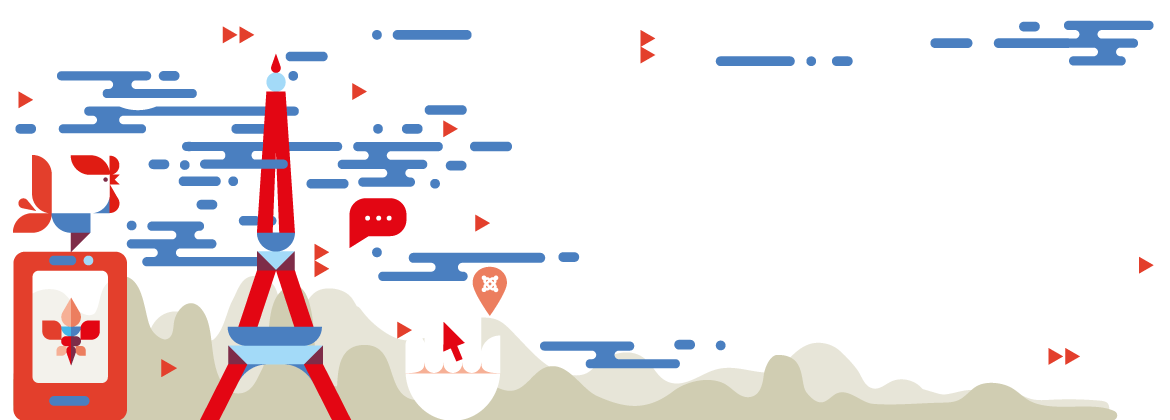
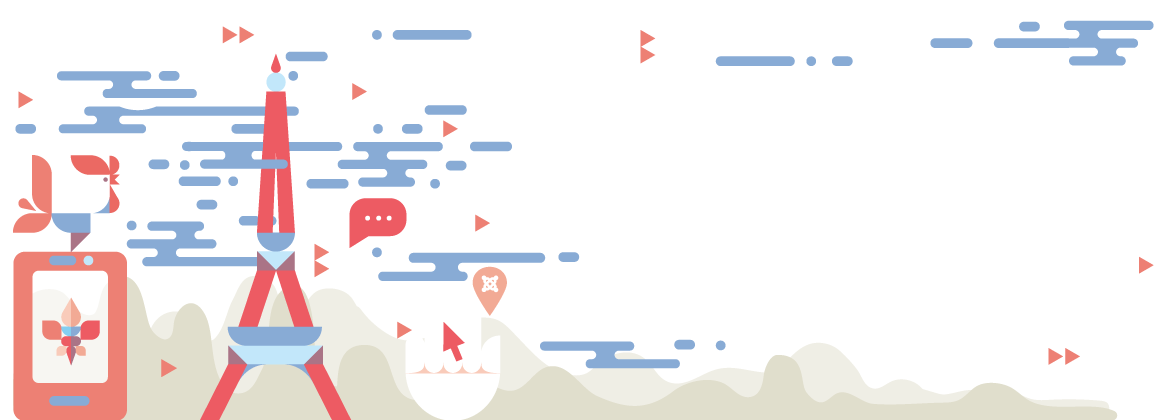
reveal

diff --git a/src/templates/jd18fr/jd18fr.css b/src/templates/jd18fr/jd18fr.css
@@ -1,43 +1,47 @@
 body {
-	max-width		  : none !important;
-	padding			: 0 !important;
-	background-color	: #f9c256;
-	background-image	: url('jd18fr.png');
-	background-size	: 1170px;
-	background-repeat  : no-repeat;
-	background-position: 100%;
+	max-width		 : none ;
+	padding: 0 !important;
+	background-color: #f9c256;
+	background-image: url('jd18fr.png');
+	background-size: 1170px;
+	background-repeat : no-repeat;
+	background-position: 50%;
 }
 
 .reveal h1 {
 	font-size: 3.2em;
-	color	: white;
+	color: white;
 }
 
 .reveal h2 {
 	font-size: 2.6em;
-	color	: #f6a542;
+	color: #ffffff;
 	/*text-shadow: .01em .02em .05em white;*/
 }
 
 .reveal h3 {
-	font-size  : 2em;
-	color	  : #7dbb48;
+	font-size : 2em;
+	color	 : #ffffff;
 	text-shadow: .1em .1em .05em #333;
 }
 
 .reveal h4 {
-	font-size  : 1.4em;
-	color	  : #7dbb48;
+	font-size : 1.4em;
+	color: #ffffff;
 	text-shadow: .1em .1em .05em #333;
 }
 
+.reveal p, .reveal li {
+	color: #f9c256;
+}
+
 .reveal strong {
-	background-color: #91d2fc;
-	/*#7dbb48;*/
-	color			: #5695cf;
-	display		 : inline-block;
-	border-radius	: 10px;
-	padding		 : 5px;
+	background-color: #f9c256;
+	color: #d0453d;
+	display: inline-block;
+	border-radius: 10px;
+	padding: 0 4px;
+	margin: 3px 0;
 }
 
 .reveal dl,
@@ -48,41 +52,42 @@ body {
 
 div.reveal .warning {
 	background-color: yellow;
-	color			: red;
-	border-radius	: 10px;
-	display		 : inline-block;
-	padding		 : 0 10px;
-	border		  : dotted;
-	font-size		: .8em;
+	color: red;
+	border-radius: 10px;
+	display: inline-block;
+	padding: 0 10px;
+	border		 : dotted;
+	font-size: .8em;
 }
 
 section:not([data-background-image]) {
-	color			: #c3d9ee;
-	background-color: rgba(0,0,0,0.4);
-	padding		 : 25px !important;
-	/*top			 : -20px !important;*/
-	width			: 125% !important;
-	left			: -140px !important;
+	color: white;
+	/*background-color: #4a7fc0d6;*/
+	background: #d0453d none repeat scroll 0 0;
+	/*padding: 25px !important;*/
+	/*top	: -20px !important;*/
+	/*width: 125% !important;*/
+	/*left: -140px !important;*/
 }
 
 .reveal .slides section .fragment.highlight-current.current-fragment {
 	background-color: #58bbfa;
-	color			: white;
-	padding		 : 25px !important;
+	color: white;
+	/*padding: 25px !important;*/
 }
 
 .fragment.visible:not(.current-fragment) {
-	display	: none;
-	height	 : 0;
+	display: none;
+	height: 0;
 	line-height: 0;
-	font-size  : 0;
+	font-size : 0;
 }
 
 div.reveal section a {
-	color			: white;
-	background-color: #7dbb48;
-	border-radius	: 10px;
-	padding		 : 0 10px;
+	color: white;
+	background-color: #f9c256;
+	border-radius: 10px;
+	padding: 0 10px;
 }
 
 div.reveal section a:hover {
@@ -95,5 +100,5 @@ div.reveal section a:hover {
 
 .reveal section em {
 	font-size: .8em;
-	color	: lightgray;
+	color: #ffffff;
 }

diff --git a/src/templates/jd17fr/jd17fr.css b/src/templates/jd17fr/jd17fr.css
@@ -1,43 +1,43 @@
 body {
-	max-width          : none !important;
-	padding            : 0 !important;
-	background-color   : #58bbfa;
-	background-image   : url('jd17fr.png');
-	background-size    : 1645px;
+	max-width		  : none !important;
+	padding			: 0 !important;
+	background-color	: #58bbfa;
+	background-image	: url('jd17fr.png');
+	background-size	: 1645px;
 	background-repeat  : no-repeat;
 	background-position: center -71px;
 }
 
 .reveal h1 {
 	font-size: 3.2em;
-	color    : white;
+	color	: white;
 }
 
 .reveal h2 {
 	font-size: 2.6em;
-	color    : #f6a542;
+	color	: #f6a542;
 	/*text-shadow: .01em .02em .05em white;*/
 }
 
 .reveal h3 {
 	font-size  : 2em;
-	color      : #7dbb48;
+	color	  : #7dbb48;
 	text-shadow: .1em .1em .05em #333;
 }
 
 .reveal h4 {
 	font-size  : 1.4em;
-	color      : #7dbb48;
+	color	  : #7dbb48;
 	text-shadow: .1em .1em .05em #333;
 }
 
 .reveal strong {
 	background-color: #91d2fc;
 	/*#7dbb48;*/
-	color           : #5695cf;
-	display         : inline-block;
-	border-radius   : 10px;
-	padding         : 5px;
+	color			: #5695cf;
+	display		 : inline-block;
+	border-radius	: 10px;
+	padding		 : 5px;
 }
 
 .reveal dl,
@@ -48,41 +48,41 @@ body {
 
 div.reveal .warning {
 	background-color: yellow;
-	color           : red;
-	border-radius   : 10px;
-	display         : inline-block;
-	padding         : 0 10px;
-	border          : dotted;
-	font-size       : .8em;
+	color			: red;
+	border-radius	: 10px;
+	display		 : inline-block;
+	padding		 : 0 10px;
+	border		  : dotted;
+	font-size		: .8em;
 }
 
 section:not([data-background-image]) {
-	color           : #c3d9ee;
+	color			: #c3d9ee;
 	background-color: rgba(0,0,0,0.4);
-	padding         : 25px !important;
-	/*top             : -20px !important;*/
-	width           : 125% !important;
-	left            : -140px !important;
+	padding		 : 25px !important;
+	/*top			 : -20px !important;*/
+	/*width			: 125% !important;
+	left			: -140px !important;*/
 }
 
 .reveal .slides section .fragment.highlight-current.current-fragment {
 	background-color: #58bbfa;
-	color           : white;
-	padding         : 25px !important;
+	color			: white;
+	padding		 : 25px !important;
 }
 
 .fragment.visible:not(.current-fragment) {
-	display    : none;
-	height     : 0;
+	display	: none;
+	height	 : 0;
 	line-height: 0;
 	font-size  : 0;
 }
 
 div.reveal section a {
-	color           : white;
+	color			: white;
 	background-color: #7dbb48;
-	border-radius   : 10px;
-	padding         : 0 10px;
+	border-radius	: 10px;
+	padding		 : 0 10px;
 }
 
 div.reveal section a:hover {
@@ -95,5 +95,5 @@ div.reveal section a:hover {
 
 .reveal section em {
 	font-size: .8em;
-	color    : lightgray;
+	color	: lightgray;
 }

diff --git a/src/templates/jd18fr/reveal.php b/src/templates/jd18fr/reveal.php
@@ -14,14 +14,16 @@
 		<title>%SITE_NAME%</title>
 
 		<link rel="stylesheet" type="text/css" href="%ROOT%/templates/assets/css/reveal.css" media="screen" />
-		
+
+		<link rel="stylesheet" type="text/css" href="%ROOT%/libs/animate.css/animate.min.css" media="screen" />
+
 		<link rel="stylesheet" type="text/css" href="%ROOT%/marknotes/plugins/page/html/reveal/libs/reveal.js/plugin/title-footer/title-footer.css" media="screen" />
 
 		<link rel="stylesheet" type="text/css" href="%ROOT%/templates/assets/css/marknotes.css" media="screen" />
 
 		<!--%ADDITIONNAL_CSS%-->
 		<link rel="stylesheet" type="text/css" href="%ROOT%/templates/jd18fr/jd18fr.css" media="screen" id="theme">
-		
+
 	</head>
 
 	<body>
@@ -35,9 +37,9 @@
 			<div class="slides" id="note_content">
 				%CONTENT%
 			</div>
-			
+
 			<footer id="title-footer"><p id="notification"></p></footer>
-			
+
 		</div>
 
 		<aside class="controls">
